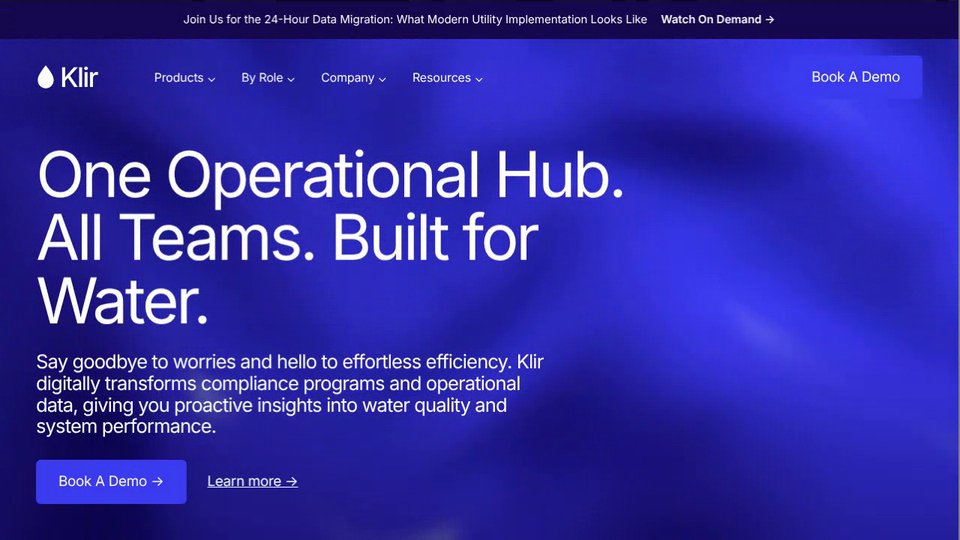
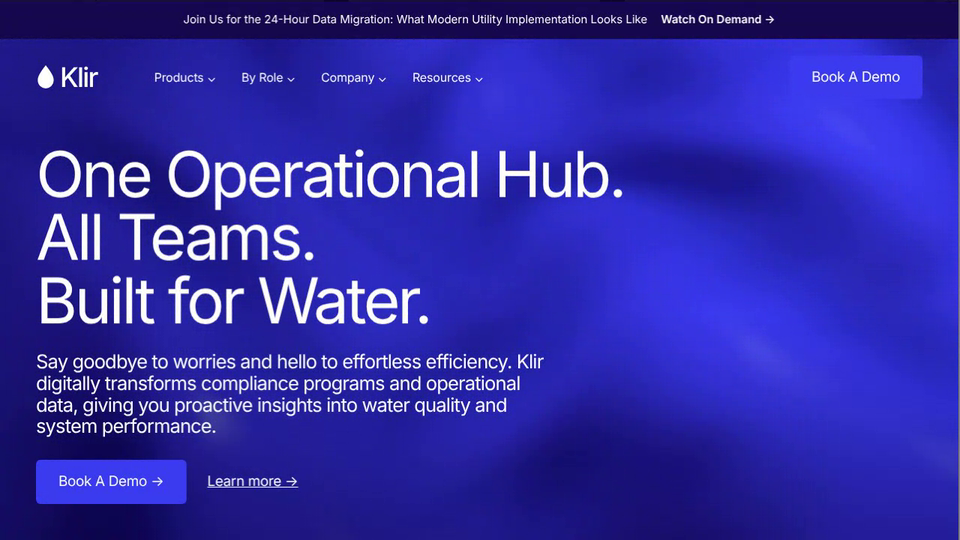
Klir Wayfinding: TerraPower-style content with gooey hover images, 'Built for Water.' on one line
Claude-Session: https://claude.ai/code/session_01AHeBdxxJMjuAF9w67sWwW5

diff --git a/klir-wayfinding/index.html b/klir-wayfinding/index.html
@@ -27,7 +27,7 @@ nav.back b{font-weight:500;color:#fff;overflow:hidden;text-overflow:ellipsis}
 header.site{position:absolute;top:0;left:0;right:0;z-index:3;display:flex;align-items:center;gap:36px;padding:22px 48px}
 .logo{text-decoration:none;display:flex;align-items:center;gap:6px;font-weight:500;font-size:36px;letter-spacing:-.05em;color:#fff}
 header.site .links{display:flex;gap:34px;font-size:16px;margin-right:auto;margin-left:40px;letter-spacing:-.01em}
-.hero h1{color:#fff;font-weight:300;font-size:clamp(44px,6.6vw,96px);line-height:1;letter-spacing:-.045em;max-width:10em}
+.hero h1{color:#fff;font-weight:300;font-size:clamp(44px,6.6vw,96px);line-height:1;letter-spacing:-.045em;max-width:12em;white-space:nowrap}
 .hero .sub{font-size:clamp(19px,2vw,27px);line-height:1.12;letter-spacing:-.035em;max-width:27em;margin-top:26px}
 .hero .cta{margin-top:30px;align-items:center;gap:28px}
 .btn{display:inline-block;background:var(--blue);color:#fff;text-decoration:none;font-weight:400;font-size:19px;letter-spacing:-.02em;padding:15px 30px;border-radius:6px;transition:background .2s}
@@ -67,6 +67,16 @@ ul.ticks svg{flex:none;width:22px;height:22px;stroke:var(--indigo);fill:none;str
 .stats b{display:block;font-size:clamp(34px,4vw,56px);font-weight:500;letter-spacing:-.04em;line-height:1.1}
 .stats span{color:var(--ink);font-size:17px}
 @media(max-width:820px){:root{--gx:22px;--cx:56px}header.site .links{display:none}header.site{padding:16px 20px}.hero{padding:0 20px 32px}section{padding:9vh 20px 9vh var(--cx)}.split{grid-template-columns:1fr}.eyebrow.node::before{left:calc(var(--gx) - var(--cx) + 14px);width:calc(var(--cx) - var(--gx) - 26px)}.gpd{right:0}.promo b{display:block;margin:6px 0 0}}
+.goo{position:relative;display:block;overflow:hidden;background:#dcdcf7}
+.goo img,.goo canvas{display:block;width:100%;height:100%;object-fit:cover}
+.goo canvas{position:absolute;inset:0}
+.goo.on img{visibility:hidden}
+.a43{aspect-ratio:4/3}.a45{aspect-ratio:4/5}
+.two{display:grid;grid-template-columns:1fr 1fr;gap:28px;margin-top:48px}
+.cap{display:flex;gap:14px;margin-top:14px;font-size:17px;letter-spacing:-.02em;color:var(--ink)}.cap b{font-weight:500;color:var(--blue)}
+.wide{margin-top:52px;max-width:1040px}
+.row2{display:grid;grid-template-columns:5fr 6fr;gap:64px;align-items:start;margin-top:48px}
+@media(max-width:820px){.two,.row2{grid-template-columns:1fr}}
 </style>
 </head>
 <body>
@@ -80,7 +90,7 @@ ul.ticks svg{flex:none;width:22px;height:22px;stroke:var(--indigo);fill:none;str
     <div class="links"><span>Products ⌄</span><span>By Role ⌄</span><span>Company ⌄</span><span>Resources ⌄</span></div>
     <a class="btn" href="#demo">Book A Demo</a>
   </header>
-  <h1>One Operational Hub. All Teams. Built for Water.</h1>
+  <h1>One Operational Hub.<br>All Teams.<br>Built for Water.</h1>
   <p class="sub">Say goodbye to worries and hello to effortless efficiency. Klir digitally transforms compliance programs and operational data, giving you proactive insights into water quality and system performance.</p>
   <div class="cta"><a class="btn" href="#demo">Book A Demo →</a><a class="tl" href="#demo">Learn more →</a></div>
 </div>
@@ -102,22 +112,27 @@ ul.ticks svg{flex:none;width:22px;height:22px;stroke:var(--indigo);fill:none;str
   <div class="eyebrow node"><i></i>Who we are</div>
   <h2>Proactive insights into water quality and <em>system performance.</em></h2>
   <p class="lead">One hub where every team works from the same compliance programs and operational data, from the lab bench to the regulator's report.</p>
+  <div class="wide"><div class="goo a43"><img src="img/drop.jpg" alt="A droplet sending ripples across still water"></div><div class="cap"><b>01</b>Every reading starts as a ripple</div></div>
 </section>
 
 <section>
   <div class="eyebrow node"><i></i>Klir for Wastewater</div>
   <h2>Operationally efficient processes also ensure compliance.</h2>
-  <div class="split">
-    <ul class="ticks" id="ticks"></ul>
-    <div class="card" aria-hidden="true"><div class="bar"></div><div class="in">
-      <h4>Customers</h4>
-      <div class="row"><b>Electroplating Corp</b><span class="pill">Active</span></div>
-      <div class="facts"><div><small>Facility name</small>Electroplating Corp</div><div><small>Facility compliance status</small><span class="pill">Compliant</span></div><div><small>Distribution system</small>Dalecarlia</div><div><small>Collection system</small>Mill Creek Collection System</div></div>
-      <div class="map"></div>
-      <div class="gpd"><b>5000</b>Gallons Per Day<br><br>Water usages</div>
-    </div></div>
+  <div class="row2">
+    <div><div class="goo a45"><img src="img/plant.jpg" alt="Aerial view of circular wastewater treatment tanks"></div><div class="cap"><b>02</b>Wastewater treatment, from above</div></div>
+    <div><ul class="ticks" id="ticks"></ul><div class="cta"><a class="btn ghost" href="#demo">Learn More About Klir For Wastewater</a></div></div>
   </div>
-  <div class="cta"><a class="btn ghost" href="#demo">Learn More About Klir For Wastewater</a></div>
+</section>
+
+<section>
+  <div class="eyebrow node"><i></i>Built for water</div>
+  <h2>Anticipate necessary changes <em>early.</em></h2>
+  <p class="lead">Evaluate against limits, receive alerts and notifications, and generate accurate NetDMR reports in clicks.</p>
+  <div class="two">
+    <div><div class="goo a43"><img src="img/tanks.jpg" alt="Two large clarifier tanks seen from above"></div><div class="cap"><b>03</b>Manage NPDES permit adherence</div></div>
+    <div><div class="goo a43"><img src="img/teal.jpg" alt="Dark teal rippling water surface"></div><div class="cap"><b>04</b>Capture information in bench sheets</div></div>
+  </div>
+  <div class="wide"><div class="goo a43"><img src="img/waves.jpg" alt="Deep blue waves with soft light"></div><div class="cap"><b>05</b>Manage industrial customers and enforce compliance</div></div>
 </section>
 
 <section id="demo">
@@ -155,6 +170,28 @@ function tick(){
 const wrap=$('wrap');
 addEventListener('scroll',tick,{passive:true});addEventListener('resize',layout);
 (document.fonts?document.fonts.ready:Promise.resolve()).then(layout);layout();
+new ResizeObserver(layout).observe(wrap);
+/* gooey hover: the image is pulled toward the pointer like a liquid */
+document.querySelectorAll('.goo').forEach(el=>{const im=el.querySelector('img'),cv=document.createElement('canvas'),g=cv.getContext('webgl');if(!g)return;
+const vs='attribute vec2 p;varying vec2 u;void main(){u=p*.5+.5;u.y=1.-u.y;gl_Position=vec4(p,0,1);}';
+const fs=`precision highp float;varying vec2 u;uniform sampler2D T;uniform vec2 m,a;uniform float s,t;
+void main(){vec2 d=u-m;vec2 q=d*a;float l=length(q);float f=exp(-l*l*9.)*s;vec2 uv=u-d*f*.55;uv+=normalize(d+1e-4)*sin(l*38.-t*5.)*.012*f;
+vec4 c=texture2D(T,uv);c.rgb+=f*.07;gl_FragColor=c;}`;
+const mk=(ty,src)=>{const o=g.createShader(ty);g.shaderSource(o,src);g.compileShader(o);return o},pr=g.createProgram();
+g.attachShader(pr,mk(g.VERTEX_SHADER,vs));g.attachShader(pr,mk(g.FRAGMENT_SHADER,fs));g.linkProgram(pr);g.useProgram(pr);
+g.bindBuffer(g.ARRAY_BUFFER,g.createBuffer());g.bufferData(g.ARRAY_BUFFER,new Float32Array([-1,-1,3,-1,-1,3]),g.STATIC_DRAW);
+const l=g.getAttribLocation(pr,'p');g.enableVertexAttribArray(l);g.vertexAttribPointer(l,2,g.FLOAT,false,0,0);
+const U=n=>g.getUniformLocation(pr,n);let tx=.5,ty=.5,mx=.5,my=.5,s=0,tgt=0,run=0;
+function init(){const T=g.createTexture();g.bindTexture(g.TEXTURE_2D,T);g.texImage2D(g.TEXTURE_2D,0,g.RGBA,g.RGBA,g.UNSIGNED_BYTE,im);
+for(const [k,v] of [[g.TEXTURE_MIN_FILTER,g.LINEAR],[g.TEXTURE_MAG_FILTER,g.LINEAR],[g.TEXTURE_WRAP_S,g.CLAMP_TO_EDGE],[g.TEXTURE_WRAP_T,g.CLAMP_TO_EDGE]])g.texParameteri(g.TEXTURE_2D,k,v);
+el.appendChild(cv);el.classList.add('on');draw(0)}
+function draw(ms){const w=el.clientWidth*Math.min(devicePixelRatio,2)|0,h=el.clientHeight*Math.min(devicePixelRatio,2)|0;if(cv.width!=w||cv.height!=h){cv.width=w;cv.height=h}
+mx+=(tx-mx)*.12;my+=(ty-my)*.12;s+=(tgt-s)*.08;g.viewport(0,0,w,h);g.uniform2f(U('m'),mx,my);g.uniform2f(U('a'),w/h,1);g.uniform1f(U('s'),s);g.uniform1f(U('t'),ms/1000);g.drawArrays(g.TRIANGLES,0,3);
+if(tgt||s>.004)run=requestAnimationFrame(draw);else run=0}
+const go=()=>{if(!run)run=requestAnimationFrame(draw)};
+el.addEventListener('pointermove',e=>{const r=el.getBoundingClientRect();tx=(e.clientX-r.left)/r.width;ty=(e.clientY-r.top)/r.height;tgt=1;go()});
+el.addEventListener('pointerleave',()=>{tgt=0;go()});
+im.complete&&im.naturalWidth?init():im.addEventListener('load',init)});
 /* water: a lit height field in Klir blues */
 (()=>{const c=$('water'),g=c.getContext('webgl');if(!g)return;
 const vs='attribute vec2 p;void main(){gl_Position=vec4(p,0,1);}';

diff --git a/tools/record-clips.js b/tools/record-clips.js
@@ -26,10 +26,10 @@ const domClick = (p, sel) => p.evaluate((s) => document.querySelector(s).click()
    Apps that move on their own just wait; the others are driven the way a visitor would use them. */
 const APPS = {
   // the Klir wayfinding line: the moving blue water hero, then the waterdrop appears, crosses the hero edge (white to blue) and travels down the page with the scroll, lighting up each section node, then back up
-  'klir-wayfinding': { vp: [1280, 769], crop: [0, 49, 1280, 720], ready: 1200, run: async (p) => {
+  'klir-wayfinding': { http: true, vp: [1280, 769], crop: [0, 49, 1280, 720], ready: 1200, run: async (p) => {
     const t0 = Date.now(), to = (y) => p.evaluate((v) => window.scrollTo({ top: v, behavior: 'smooth' }), y);
     await at(t0, 800, () => to(500));
-    await at(t0, 2200, () => to(1500));
+    await at(t0, 2200, () => { p.mouse.move(640, 400); to(1500); });
     await at(t0, 3600, () => to(2600));
     await at(t0, 4800, () => to(0));
   } },
